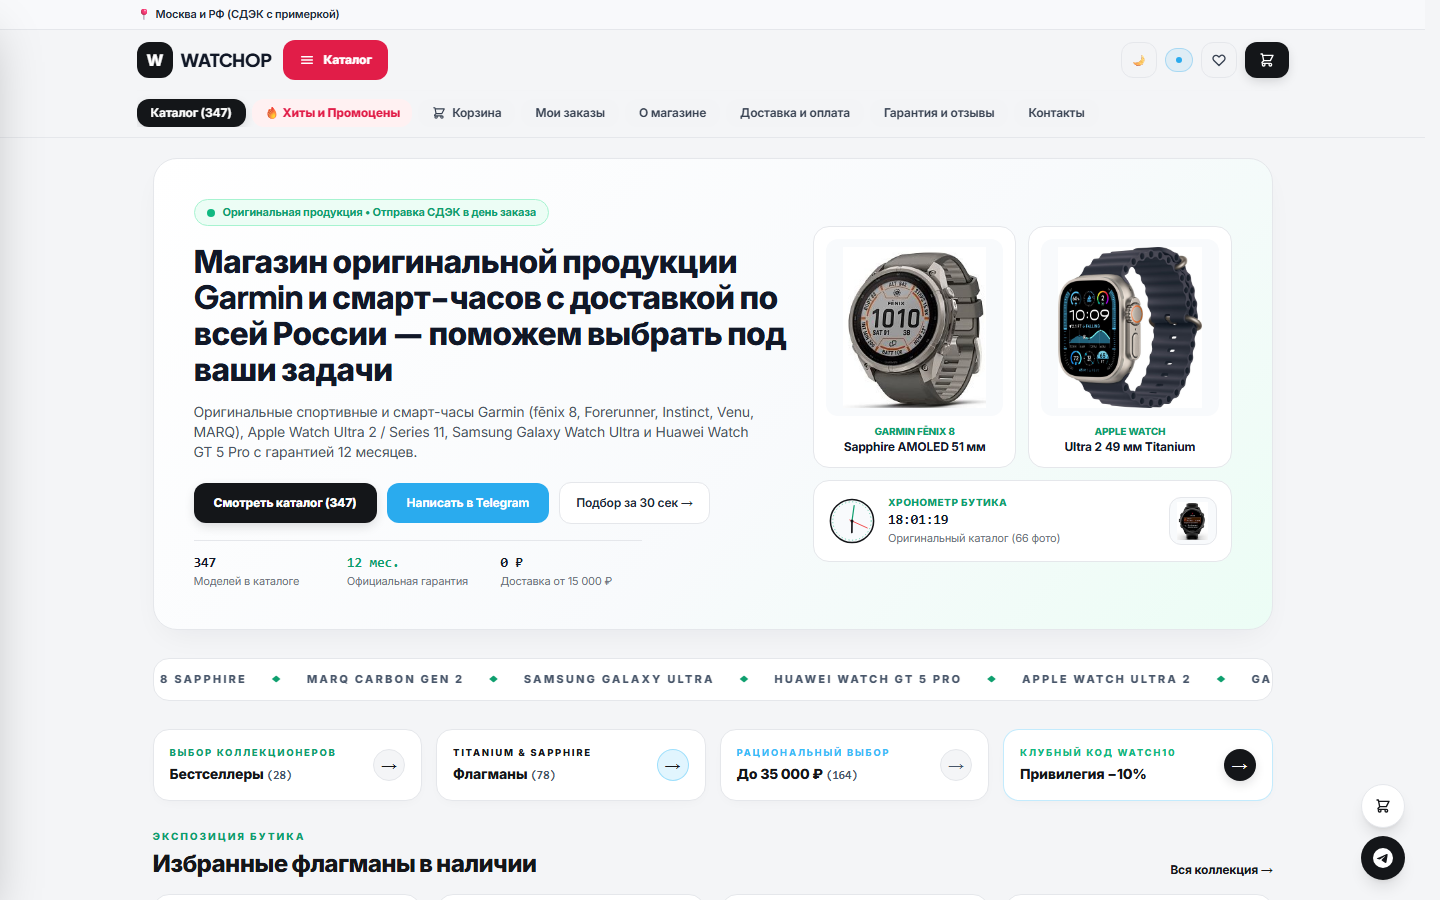
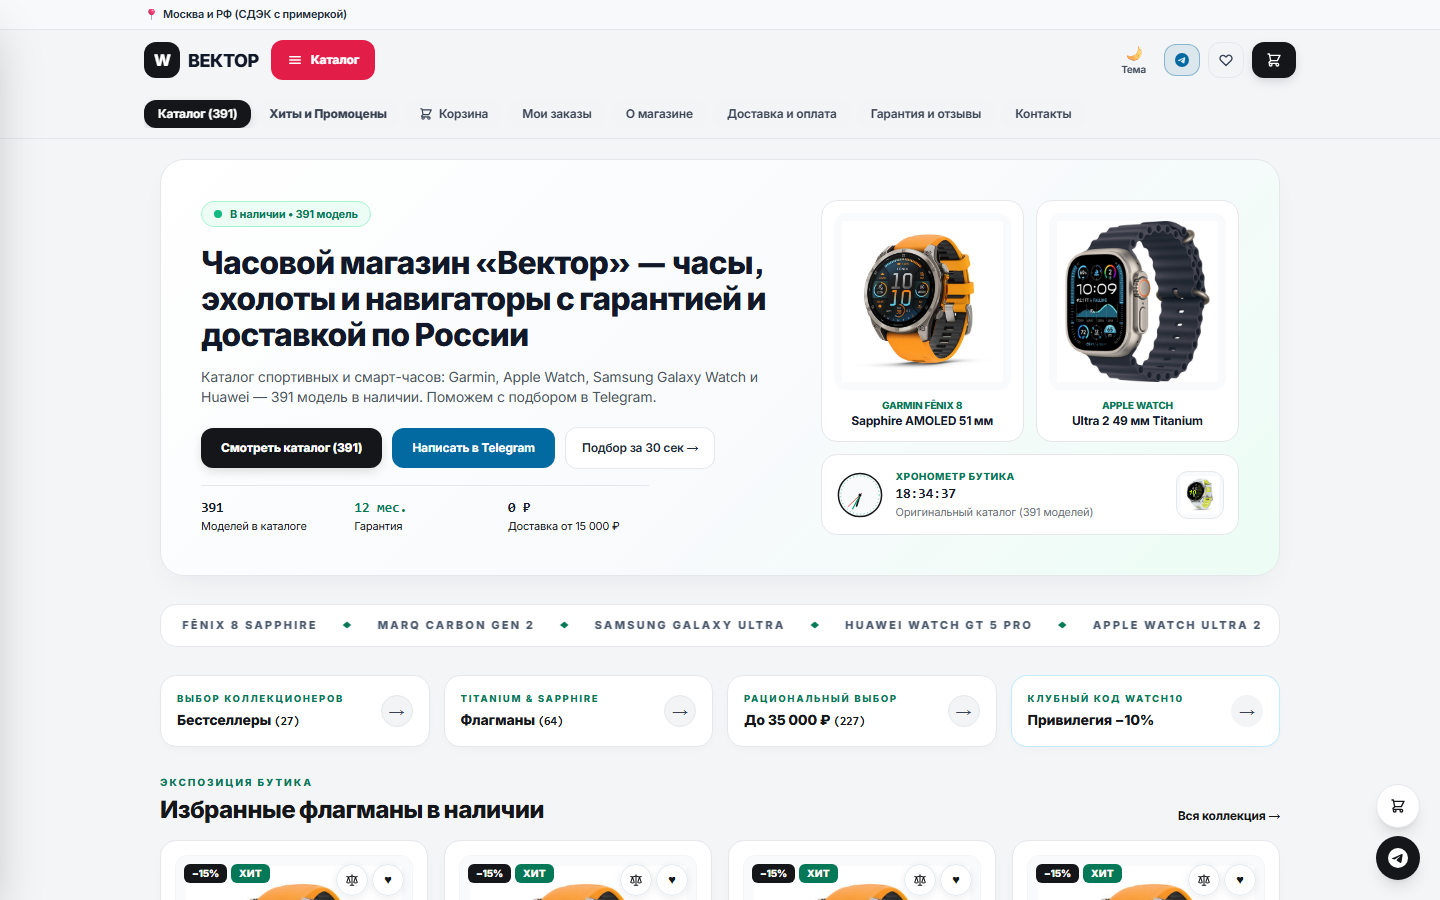
content: catalog 391, store rebranded to Vektor

diff --git a/index.html b/index.html
@@ -291,7 +291,7 @@ h2{font-size:clamp(30px,4.3vw,46px);line-height:1.04;letter-spacing:-.045em;font
       </div>
       <div class="stats">
         <div class="stat"><b>10</b><span>живых сайтов,<br>включая хаб</span></div>
-        <div class="stat"><b>347</b><span>товаров в магазине<br>shopwatch</span></div>
+        <div class="stat"><b>391</b><span>товаров в магазине<br>shopwatch</span></div>
         <div class="stat"><b>66</b><span>tools в MCP-сервере<br>raven</span></div>
         <div class="stat"><b>5</b><span>Telegram-ботов<br>в работе</span></div>
       </div>
@@ -311,7 +311,7 @@ h2{font-size:clamp(30px,4.3vw,46px);line-height:1.04;letter-spacing:-.045em;font
       <div class="projects">
         <article class="card card--featured">
           <a class="shot" href="https://ssrjkk.github.io/shopwatch/" target="_blank" rel="noopener" aria-label="Открыть магазин shopwatch">
-            <img src="assets/shopwatch.png" alt="WATCHOP: витрина магазина Garmin и смарт-часов, каталог на 347 моделей" loading="eager">
+            <img src="assets/shopwatch.png" alt="Вектор: витрина часового магазина, каталог на 391 модель" loading="eager">
             <span class="badge live">live</span>
           </a>
           <div class="card-body">
@@ -319,7 +319,7 @@ h2{font-size:clamp(30px,4.3vw,46px);line-height:1.04;letter-spacing:-.045em;font
               <h3>shopwatch</h3>
               <span class="mono">e-commerce</span>
             </div>
-            <p>Магазин часов на 347 товаров: каталог с поиском, фильтры, корзина и оформление. Заказ уходит из Deep Link в Telegram- или MAX-бота. Каталог выгружается в WooCommerce, OpenCart и PrestaShop.</p>
+            <p>Часовой магазин «Вектор» на 391 модель: каталог с поиском, фильтры, корзина и оформление. Заказ уходит из Deep Link в Telegram- или MAX-бота. Каталог выгружается в WooCommerce, OpenCart и PrestaShop.</p>
             <ul class="tags">
               <li>JavaScript</li><li>Node.js</li><li>TG / MAX bots</li><li>GitHub Pages</li>
             </ul>
@@ -519,7 +519,7 @@ h2{font-size:clamp(30px,4.3vw,46px);line-height:1.04;letter-spacing:-.045em;font
           <span class="mono">catalogue →</span>
         </a>
         <a class="more-row" href="https://t.me/wwwatchshop_bot" target="_blank" rel="noopener">
-          <div><b>@wwwatchshop_bot</b><p>Заказы магазина Watchop: состав корзины приходит из витрины по deep link, заявка создаётся в боте.</p></div>
+          <div><b>@wwwatchshop_bot</b><p>Заказы магазина «Вектор»: состав корзины приходит из витрины по deep link, заявка создаётся в боте.</p></div>
           <span class="mono">shop →</span>
         </a>
         <a class="more-row" href="https://t.me/waketrade_bot" target="_blank" rel="noopener">
